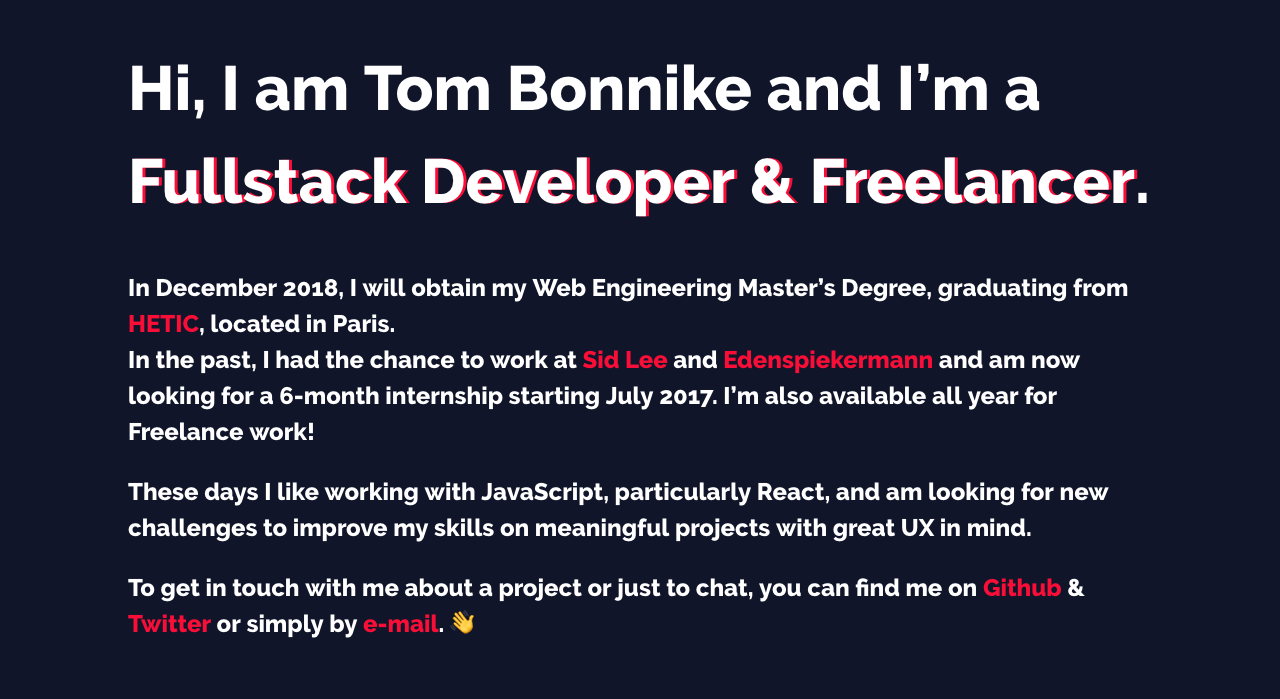
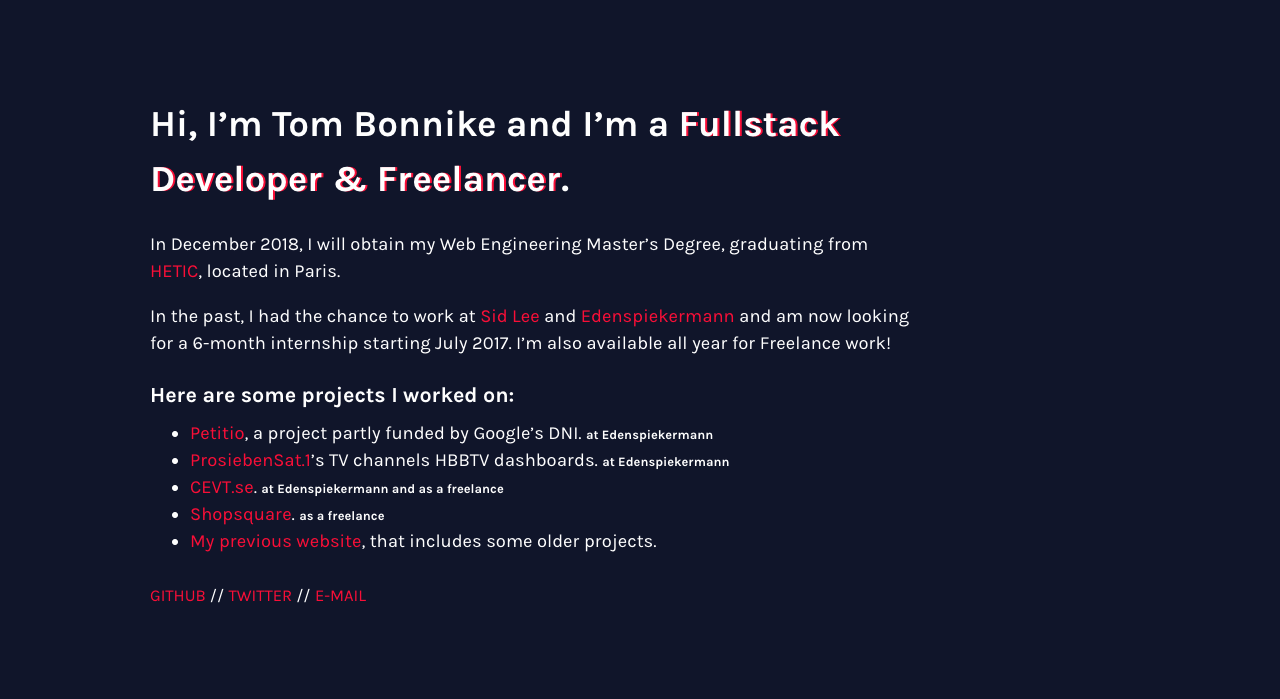
Updated content & styles

Changed region(s): [[0.0938, 0.3305, 0.875, 0.7811], [0.0938, 0.0901, 0.9062, 0.3004], [0.0938, 0.8112, 0.8438, 0.9313]]

diff --git a/index.html b/index.html
@@ -6,10 +6,10 @@
   <meta name="viewport" content="width=device-width, initial-scale=1, minimal-ui">
 
   <link rel="stylesheet" href="assets/css/normalize.min.css">
-  <link rel="stylesheet" href="https://fonts.googleapis.com/css?family=Raleway:800">
+  <link rel="stylesheet" href="https://fonts.googleapis.com/css?family=Karla:400,700">
   <link rel="stylesheet" href="assets/css/main.css">
 
-  <link rel="canonical" href="tom-bonnike.com/">
+  <link rel="canonical" href="http://tom-bonnike.com/">
   <link rel="icon" href="assets/images/favicon.ico">
   <!--[if IE]>
     <link rel="shortcut icon" href="assets/images/favicon.ico">
@@ -28,53 +28,61 @@
   <meta property="og:locale" content="en_US">
 </head>
 <body>
-  <div class="container">
+  <main class="container">
     <h1 class="title">
-      Hi, I am Tom Bonnike and I’m a <span class="shadowed-text">Fullstack Developer & Freelancer</span>.
+      Hi, I’m Tom Bonnike and I’m a <span class="shadowed-text">Fullstack Developer & Freelancer</span>.
     </h1>
 
-    <p>
-      In December 2018, I will obtain my Web Engineering Master’s Degree, graduating from <a target="_blank" rel="noopener noreferrer" href="http://www.hetic.net/">HETIC</a>, located in Paris.
-      <br>
-      In the past, I had the chance to work at <a target="_blank" rel="noopener noreferrer" href="http://sidlee.com/">Sid Lee</a> and <a target="_blank" rel="noopener noreferrer" href="https://www.edenspiekermann.com/">Edenspiekermann</a> and am now looking for a 6-month internship starting July 2017. I’m also available all year for Freelance work!
-    </p>
+    <section class="about">
+      <p>
+        In December 2018, I will obtain my Web Engineering Master’s Degree, graduating from <a target="_blank" rel="noopener noreferrer" href="http://www.hetic.net/">HETIC</a>, located in Paris.
+      </p>
 
-    <p>
-      The biggest project I worked on was a NodeJS application that relied heavily on WebSockets. I was the sole backend developer and managed the project’s deployment using AWS.
-      We had 300,000 visits over a 3-month period, before we had to close for legal reasons.
-    </p>
+      <p>
+        In the past, I had the chance to work at <a target="_blank" rel="noopener noreferrer" href="http://sidlee.com/">Sid Lee</a> and <a target="_blank" rel="noopener noreferrer" href="https://www.edenspiekermann.com/">Edenspiekermann</a> and am now looking for a 6-month internship starting July 2017. I’m also available all year for Freelance work!
+      </p>
+    </section>
 
-    <p class="list-title">Here are some other projects I worked on:</p>
-    <ul class="list">
+    <section class="projects">
+      <h3 class="projects-title">Here are some projects I worked on:</h3>
+
+      <ul class="projects-list">
+        <li>
+          <a target="_blank" rel="noopener noreferrer" href="https://www.petitio.ch/">Petitio</a>, a project partly funded by Google’s DNI. <span class="small">at Edenspiekermann</span>
+        </li>
+
+        <li>
+          <a target="_blank" rel="noopener noreferrer" href="http://www.prosiebensat1.de/en/">ProsiebenSat.1</a>’s TV channels HBBTV dashboards. <span class="small">at Edenspiekermann</span>
+        </li>
+
+        <li>
+          <a target="_blank" rel="noopener noreferrer" href="http://www.cevt.se/">CEVT.se</a>. <span class="small">at Edenspiekermann and as a freelance</span>
+        </li>
+
+        <li>
+          <a target="_blank" rel="noopener noreferrer" href="https://www.shopsquare.fr/">Shopsquare</a>. <span class="small">as a freelance</span>
+        </li>
+
+        <li>
+          <a target="_blank" rel="noopener noreferrer" href="http://tom-bonnike.com/2016.tom-bonnike.github.io/">My previous website</a>, that includes some older projects.
+        </li>
+      </ul>
+    </section>
+
+    <ul class="socials">
       <li>
-        <a target="_blank" rel="noopener noreferrer" href="https://www.petitio.ch/">Petitio</a>, a project partly funded by Google’s DNI. <span class="small">at Edenspiekermann</span>
+        <a target="_blank" rel="noopener noreferrer" href="https://github.com/tom-bonnike/">Github</a>
       </li>
 
       <li>
-        <a target="_blank" rel="noopener noreferrer" href="http://www.prosiebensat1.de/en/">ProsiebenSat.1</a>’s TV channels HBBTV dashboards. <span class="small">at Edenspiekermann</span>
+        <a target="_blank" rel="noopener noreferrer" href="https://twitter.com/tombonnike/">Twitter</a>
       </li>
 
       <li>
-        <a target="_blank" rel="noopener noreferrer" href="http://www.cevt.se/">CEVT.se</a>. <span class="small">at Edenspiekermann and as a freelance</span>
-      </li>
-
-      <li>
-        <a target="_blank" rel="noopener noreferrer" href="https://www.shopsquare.fr/">Shopsquare</a>. <span class="small">as a freelance</span>
-      </li>
-
-      <li>
-        <a target="_blank" rel="noopener noreferrer" href="http://tom-bonnike.com/2016.tom-bonnike.github.io/">My previous website</a>, that includes some older projects.
+        <a href="mailto:bonniketom@gmail.com">E-mail</a>
       </li>
     </ul>
-
-    <p>
-      These days I like working with JavaScript, particularly NodeJS and React, and am looking for new challenges to improve my skills on meaningful projects with great UX in mind.
-    <p>
-
-    <p>
-      To get in touch with me about a project or just to chat, you can find me on <a target="_blank" rel="noopener noreferrer" href="https://github.com/tom-bonnike/">Github</a> & <a target="_blank" rel="noopener noreferrer" href="https://twitter.com/tombonnike/">Twitter</a> or simply by <a href="mailto:bonniketom@gmail.com">e-mail</a>. 👋
-    </p>
-  </div>
+  </main>
 
   <script type="text/javascript">
     (function(i,s,o,g,r,a,m){i['GoogleAnalyticsObject']=r;i[r]=i[r]||function(){

diff --git a/assets/css/main.css b/assets/css/main.css
@@ -1,9 +1,15 @@
+html,
+body {
+  height: 100%;
+}
+
 /**
  * 1. Fixes rendering of fonts being more bold than intended.
  */
 body {
+  display: flex;
   background-color: rgb(16, 21, 42);
-  font: 150% / 1.5 'Raleway', 'Helvetica', 'Arial', sans-serif;
+  font: 115% / 1.5 'Karla', 'Helvetica', 'Arial', sans-serif;
   color: rgb(255, 255, 255);
   -webkit-font-smoothing: antialiased; /* 1 */
   -moz-osx-font-smoothing: grayscale; /* 1 */
@@ -26,7 +32,7 @@ a::after {
   -webkit-transform: scaleX(0);
   transform: scaleX(0);
   width: 50%;
-  height: 3px;
+  height: 1px;
   background-color: rgb(250, 14, 55);
   -webkit-transition: -webkit-transform 300ms;
   transition: -webkit-transform 300ms;
@@ -59,32 +65,56 @@ a:hover::before {
 }
 
 .shadowed-text {
-  text-shadow: 3px 0 0 rgb(250, 14, 55);
+  text-shadow: 2px 0 0 rgb(250, 14, 55);
 }
 
 .container {
-  width: 80%;
+  max-width: 80%;
   margin: 0 auto;
 }
 
+@media (min-width: 768px) {
+  .container {
+    align-self: center;
+  }
+}
+
+@media (min-width: 992px) {
+  .container {
+    max-width: 60%;
+    margin-left: 150px;
+  }
+}
+
 .title {
-  font-size: 260%;
-}
-
-.list-title {
-  margin-bottom: 0;
-}
-
-.list {
-  margin-top: 0;
+  font-size: 200%;
 }
 
 .small {
-  font-size: 50%;
+  font-size: 70%;
+  font-weight: bolder;
 }
 
-@media (max-width: 470px) {
-  .title {
-    font-size: 200%;
-  }
+.projects-title {
+  margin-bottom: 0;
+}
+
+.projects-list {
+  margin-top: 0.5em;
+}
+
+.socials {
+  margin-top: 1.5em;
+  padding: 0;
+  list-style: none;
+}
+
+.socials li {
+  display: inline-block;
+  text-transform: uppercase;
+  font-size: 90%;
+}
+
+.socials li:not(:last-child)::after {
+  content: '//';
 }
